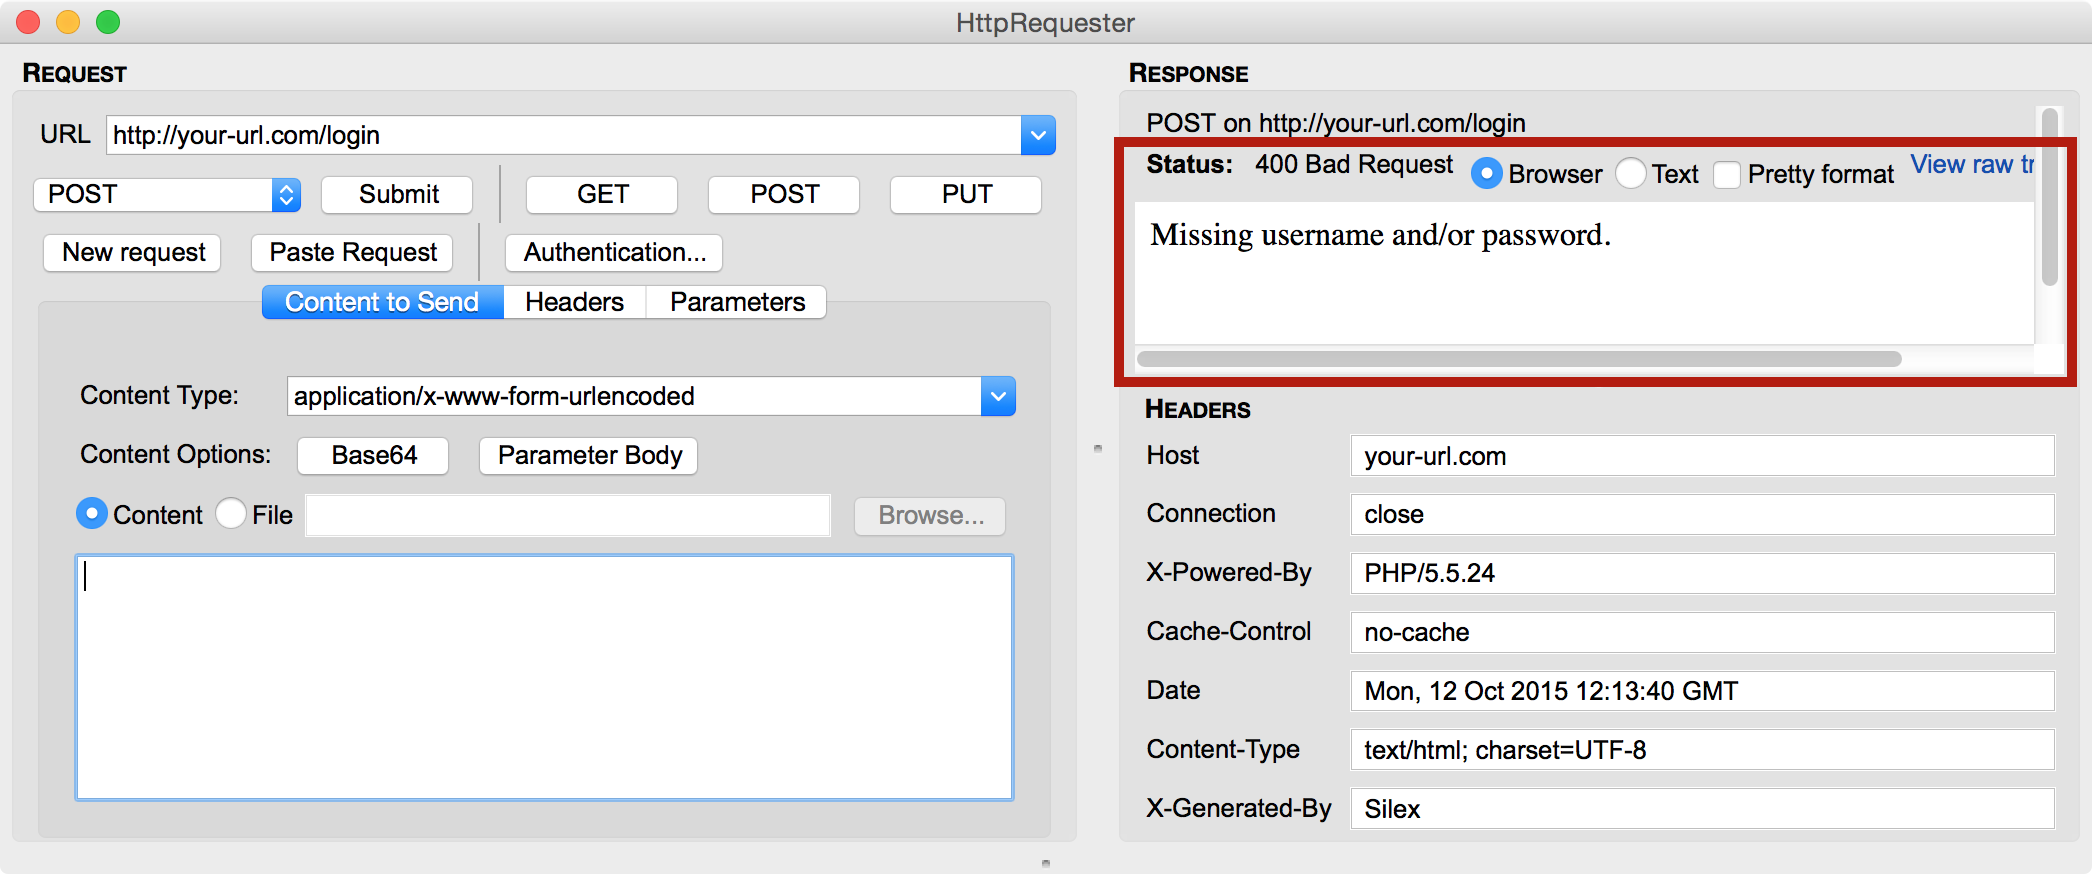
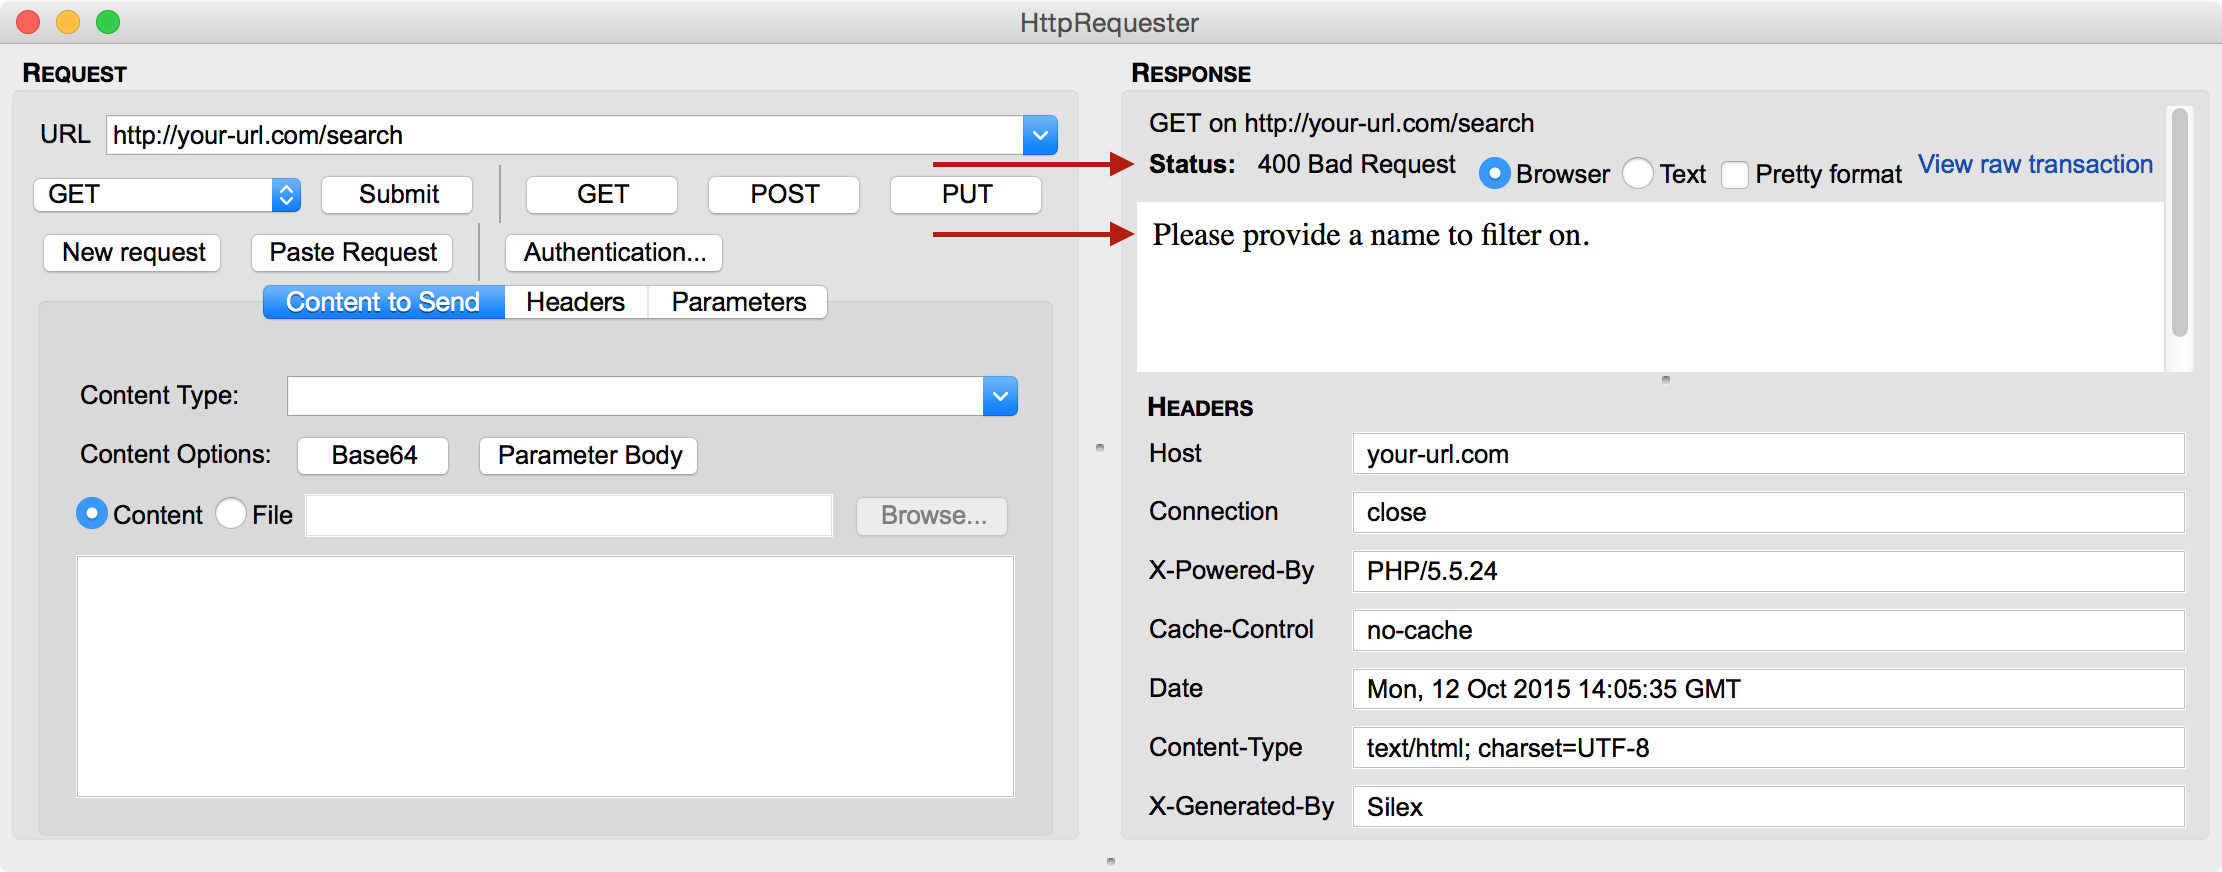
Moved the slides about handling errors up, after middlewares.

diff --git a/slides/handling-errors.md b/slides/handling-errors.md
@@ -1,18 +1,17 @@
 ##  Handling errors
 
 ```php
-$app->post(
-    '/login',
-    function (Request $request) use ($app) {
-        $username = $request->request->get('username');
-        $password = $request->request->get('password');
-        
-        if (empty($username) || empty($password)) {
+$app->get(
+    '/search',
+    function (Request $request) {
+        $filter = $request->query->get('name');
+        if (empty($filter)) {
             throw new Exception(
-                'Missing username and/or password.', 
+                'Please provide a name to filter on.',
                 400
             );
         }
+        
         // ...
     }
 );

diff --git a/slides/what-will-we-learn.md b/slides/what-will-we-learn.md
@@ -4,7 +4,7 @@
 * Handling incoming requests
 * Sending responses
 * Adding additional behavior with middlewares
+* Handling errors
 * Using shared services to reduce code duplication
 * Storing session data
 * Storing data on the filesystem
-* Handling errors
